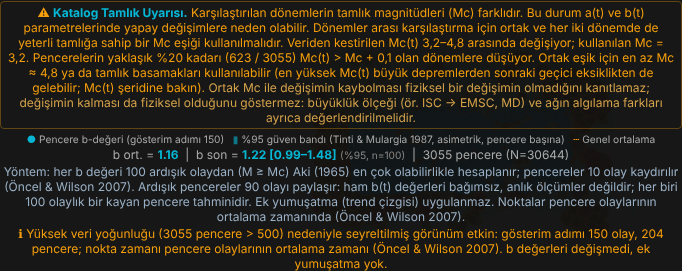
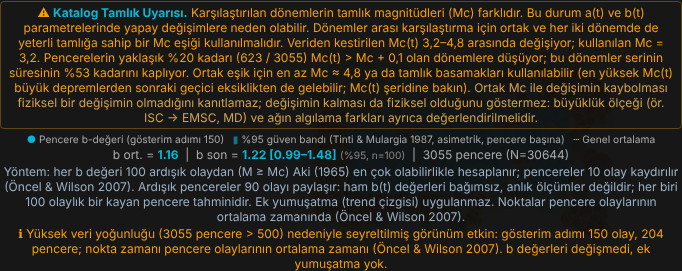
Mc uyarısı son inceleme: geçici (büyük deprem sonrası) ve kalıcı tamlık eksikliği süre oranıyla ayrıldı; basamak Mc(t) ölçütüne en az 2 takvim yılı koşulu
- Tek Mc: 'inc' pencereleri sürenin ≥ %5'i → kalıcı uyarı; < %5 → ayrı geçici eksiklik notu
- Kabul 31/31 (13 senaryo: GK74 açık/kapalı, Mc 4,0/4,5, basamaklar ± GK74, Kahramanmaraş); birim test_mc_uyari 16/16, tümü 16/16
- Hesap değişmedi (b(t), a(t), G–R önce = sonra); data/ değişmedi. RAPOR §2a

Claude-Session: https://claude.ai/code/session_01UNMkcWFv5QgcQmvZTMC63m

Changed region(s): [[0.0, 0.1771, 0.9853, 0.4723]]

diff --git a/index.html b/index.html
@@ -2989,7 +2989,8 @@ function renderAvalueTS(series, N, Mc, cs, t0, t1, NW, STEP) {
 let lastAts = null;
 // Katalog tamlık (Mc uyumsuzluğu) uyarısı (2026-10-31). Hesap değiştirmez; b(t) panelinin mevcut ölçümlerini kullanır:
 //  • tek Mc: Mc(t) şeridi (kayan pencere veri Mc'si, maks. eğrilik +0,2) ve pencere başına 'inc' işareti (pencere süresinde veri Mc(t) > kullanılan Mc + 0,1).
-//    Uyarı: pencerelerin en az %5'i 'inc' ise. Önerilen ortak eşik: en yüksek veri Mc(t)'si (0,1'e yukarı yuvarlanmış).
+//    Uyarı: pencerelerin en az %5'i 'inc' ise. 'inc' pencereleri serinin süresinin de en az %5'ini kaplıyorsa kalıcı tamlık farkı (asıl uyarı),
+//    kaplamıyorsa geçici eksiklik notu (büyük deprem sonrası kısa süreli Mc yükselmesi). Önerilen ortak eşik: en yüksek veri Mc(t)'si (0,1'e yukarı).
 //  • tamlık basamakları: dönemin bütün verisinden Mc'si eşiğin CS_QC.mcGap (0,2) üstündeyse (renderCsDiag ile aynı ölçüt) YA DA dönem içindeki
 //    Mc(t) şeridinin en az 2 noktası ve %10'u eşik + 0,2'nin üstündeyse YA DA dönem içinde en az 2 yılın yıllık Mc'si (≥ 50 olaylı yıllar, csSuggest
 //    ile aynı ölçüt) eşik + 0,2'nin üstündeyse (seyrek dönemlerde 250 olaylık Mc(t) penceresi birkaç yılı kapsar; örn. 1985–1989'da yıllık Mc 4,7–4,8, eşik 4,0).
@@ -2999,7 +3000,7 @@ function mcUyariDurum(o) {
     (o.periods || []).forEach(p => {
       const butun = p.mcData !== null && p.mcData !== undefined && p.mc < p.mcData - o.gap - 1e-9;
       const pts = (o.mcSer || []).filter(m => m.t >= p.t0 && m.t < p.t1), ust = pts.filter(m => m.mc > +p.mc + o.gap + 1e-9);
-      const ici = pts.length >= 2 && ust.length >= 2 && ust.length / pts.length >= 0.1;
+      const ici = pts.length >= 2 && ust.length >= 2 && ust.length / pts.length >= 0.1 && new Set(ust.map(m => new Date(m.t).getUTCFullYear())).size >= 2;   // en az 2 takvim yılı: büyük deprem sonrası birkaç aylık geçici eksiklik tek başına yetmez
       // Yıllık Mc (≥ CS_QC.minEvents olaylı yıllar; csSuggest ile aynı ölçüt): dönem içinde en az 2 yıl eşik + gap üstünde
       const yy = (o.yillik || []).filter(q => q.t0 >= p.t0 - 864e5 && q.t1 <= p.t1 + 864e5 && q.mc > +p.mc + o.gap + 1e-9), yil = yy.length >= 2;
       if (butun || ici || yil) az.push({ mc: +p.mc, mcData: p.mcData ?? null, t0: p.t0, t1: p.t1, mcTmax: ust.length ? Math.max(...ust.map(m => m.mc)) : null, oran: pts.length ? ust.length / pts.length : 0, nPts: pts.length,
@@ -3010,15 +3011,28 @@ function mcUyariDurum(o) {
   }
   const ser = o.ser || [], mcs = (o.mcSer || []).map(m => m.mc).filter(Number.isFinite);
   if (!ser.length || mcs.length < 2 || !Number.isFinite(o.Mc)) return { on: false };
-  const nInc = ser.filter(q => q.inc).length, frac = nInc / ser.length, mcMin = Math.min(...mcs), mcMax = Math.max(...mcs);
-  return frac >= 0.05 ? { on: true, tur: 'tekMc', frac, nInc, n: ser.length, mcMin, mcMax, Mc: o.Mc, oner: Math.ceil(mcMax * 10 - 1e-9) / 10 } : { on: false, frac, mcMin, mcMax };
+  const inc = ser.filter(q => q.inc), nInc = inc.length, frac = nInc / ser.length, mcMin = Math.min(...mcs), mcMax = Math.max(...mcs);
+  // Süre ağırlığı: 'inc' pencerelerinin [t0, t1] aralıklarının birleşim uzunluğu / serinin toplam süresi. Pencereler olay sayısıyla tanımlı olduğundan
+  // artçı dizisinde kısa sürede çok pencere oluşur; pencere oranı yüksek ama süre oranı düşükse eksiklik geçicidir (büyük deprem sonrası), kalıcı değil.
+  const T0 = Math.min(...ser.map(q => q.t0)), T1 = Math.max(...ser.map(q => q.t1));
+  let birlesim = 0, a = null, b = null;
+  inc.map(q => [q.t0, q.t1]).sort((x, y) => x[0] - y[0]).forEach(([x, y]) => { if (a === null) { a = x; b = y; } else if (x <= b) b = Math.max(b, y); else { birlesim += b - a; a = x; b = y; } });
+  if (a !== null) birlesim += b - a;
+  const sureOran = T1 > T0 ? birlesim / (T1 - T0) : 0;
+  if (frac < 0.05) return { on: false, frac, sureOran, mcMin, mcMax };
+  const ortak = { frac, sureOran, nInc, n: ser.length, mcMin, mcMax, Mc: o.Mc, oner: Math.ceil(mcMax * 10 - 1e-9) / 10 };
+  return sureOran >= 0.05 ? { on: true, tur: 'tekMc', ...ortak } : { on: true, tur: 'gecici', ...ortak };
 }
 function mcUyariHtml(d, kisa) {
   if (!d || !d.on) return '';
   const f = v => v.toFixed(1).replace('.', ','), yil = t => new Date(t).getUTCFullYear();
+  if (d.tur === 'gecici') {
+    if (kisa) return `<div id="mcUyariA" style="color:#d4a24a;margin-bottom:3px">ⓘ <b>Geçici tamlık eksikliği:</b> kısa süreli Mc yükselmesi (büyük deprem sonrası olası); a(t)'deki kısa süreli değişimleri etkileyebilir (ayrıntı b(t) panelinde).</div>`;
+    return `<div id="mcUyariB" style="color:#d4a24a;border:1px solid #d4a24a55;border-radius:4px;padding:3px 6px;margin-bottom:4px">ⓘ <b>Geçici tamlık eksikliği.</b> Pencerelerin yaklaşık %${Math.round(100 * d.frac)} kadarı (${d.nInc} / ${d.n}) veri Mc(t) > Mc + 0,1 olan aralıklara düşüyor, ancak bu aralıklar serinin süresinin yalnızca %${Math.max(1, Math.round(100 * d.sureOran))} kadarını kaplıyor (en yüksek Mc(t) ${f(d.mcMax)}; kullanılan Mc ${f(d.Mc)}). Bu örüntü, büyük depremlerden hemen sonra küçük olayların kaydedilememesiyle uyumludur; dönemler arası kalıcı bir Mc farkı değildir. O aralıklardaki a(t) ve b(t) değerleri (kısa süreli hız tepeleri, düşük b) eksik kayıttan etkilenebilir; Mc(t) şeridine bakın.</div>`;
+  }
   if (kisa) return `<div id="mcUyariA" style="color:#f59e0b;margin-bottom:3px">⚠ <b>Katalog tamlık uyarısı:</b> dönemlerin Mc'leri farklı; a(t)'deki değişimler yapay olabilir (ayrıntı b(t) panelinde).</div>`;
   const neden = d.tur === 'tekMc'
-    ? `Veriden kestirilen Mc(t) ${f(d.mcMin)}–${f(d.mcMax)} arasında değişiyor; kullanılan Mc = ${f(d.Mc)}. Pencerelerin yaklaşık %${Math.round(100 * d.frac)} kadarı (${d.nInc} / ${d.n}) Mc(t) > Mc + 0,1 olan dönemlere düşüyor. Ortak eşik için en az Mc ≈ ${f(d.oner)} ya da tamlık basamakları kullanılabilir (en yüksek Mc(t) büyük depremlerden sonraki geçici eksiklikten de gelebilir; Mc(t) şeridine bakın).`
+    ? `Veriden kestirilen Mc(t) ${f(d.mcMin)}–${f(d.mcMax)} arasında değişiyor; kullanılan Mc = ${f(d.Mc)}. Pencerelerin yaklaşık %${Math.round(100 * d.frac)} kadarı (${d.nInc} / ${d.n}) Mc(t) > Mc + 0,1 olan dönemlere düşüyor; bu dönemler serinin süresinin %${Math.round(100 * d.sureOran)} kadarını kaplıyor. Ortak eşik için en az Mc ≈ ${f(d.oner)} ya da tamlık basamakları kullanılabilir (en yüksek Mc(t) büyük depremlerden sonraki geçici eksiklikten de gelebilir; Mc(t) şeridine bakın).`
     : `Basamak eşiği, o dönemin veriden kestirilen Mc'sinin belirgin biçimde altında: ${d.donemler.map(p => `${yil(p.t0)}–${yil(p.t1 - 1)}: eşik ${f(p.mc)}` + (p.mcData !== null && p.mc < p.mcData - 0.2 - 1e-9 ? `, dönemin veri Mc'si ${f(p.mcData)}` : '') + (p.mcTmax !== null && p.neden.includes('Mc(t)') ? `, Mc(t) ${yil(p.ustT0)}–${yil(p.ustT1)} arasında ${f(p.mcTmax)}'e kadar (dönemdeki Mc(t) noktalarının %${Math.round(100 * p.oran)} kadarı eşik + 0,2'nin üstünde)` : '') + (p.yillar && p.yillar.length ? `, yıllık Mc ${p.yillar.map(q => `${q.y}: ${f(q.mc)}`).join(', ')}` : '')).join('; ')}.`;
   return `<div id="mcUyariB" style="color:#f59e0b;border:1px solid #f59e0b55;border-radius:4px;padding:3px 6px;margin-bottom:4px">⚠ <b>Katalog Tamlık Uyarısı.</b> Karşılaştırılan dönemlerin tamlık magnitüdleri (Mc) farklıdır. Bu durum a(t) ve b(t) parametrelerinde yapay değişimlere neden olabilir. Dönemler arası karşılaştırma için ortak ve her iki dönemde de yeterli tamlığa sahip bir Mc eşiği kullanılmalıdır. ${neden} ` +
     `<span style="color:#d4a24a">Ortak Mc ile değişimin kaybolması fiziksel bir değişimin olmadığını kanıtlamaz; değişimin kalması da fiziksel olduğunu göstermez: büyüklük ölçeği (ör. ISC → EMSC, MD) ve ağın algılama farkları ayrıca değerlendirilmelidir.</span></div>`;

diff --git a/analysis/mc_uyari/kabul_mc.js b/analysis/mc_uyari/kabul_mc.js
@@ -7,6 +7,7 @@
 //   basamak_test   ISC 1971–1997, basamaklar 1971 M ≥ 4,5 / 1985 M ≥ 4,0 (Poisson raporunda iyimser bulunan test basamakları)
 //   basamak_oto    ISC 1971–1997, "Otomatik öner" basamakları (5,0 / 4,2 / 4,8 / 3,9)
 //   marmara        Marmara, EMSC 1998–, otomatik Mc
+//   + GK74 açık, Mc 4,5, basamak + GK74, Kahramanmaraş (36,5–38,5° K / 35,5–39° D; 2023 artçıları) GK74 kapalı/açık: geçici/kalıcı ayrımı
 // Denetimler: (1) b(t) ve a(t) grafikleri, uyarı bloğu dışındaki b(t)/a(t) metinleri ve G–R metni önce = sonra (hesap değişmedi);
 //   (2) uyarı b(t)'de varsa a(t)'de kısa notu da var (ve tersi); (3) birlesik senaryosunda uyarı var; iyimser 1985 basamağı yıllık Mc ile yakalanıyor; (4) sayfa hatası yok.
 // Ekran görüntüsü: mc_uyari_birlesik.png
@@ -58,6 +59,13 @@ const SEN = {
   basamak_test:  { p: [[1971, 1997]], r: [36, 26, 42, 45], cs: [['1971-01-01', '4.5'], ['1985-01-01', '4.0']] },
   basamak_oto:   { p: [[1971, 1997]], r: [36, 26, 42, 45], cs: [['1971-01-01', '5.0'], ['1984-01-01', '4.2'], ['1986-01-01', '4.8'], ['1990-01-01', '3.9']] },
   marmara:       { p: [[1998, null]], r: [40, 26, 41.5, 31] },
+  // Geriye dönük uyumluluk (ChatGPT m. 3): GK74 açık, farklı Mc modları, basamaklar + GK74; geçici eksiklik (büyük artçı dizisi)
+  birlesik_gk74:     { p: [[1971, 1997], [1998, null]], r: [36, 26, 42, 45], gk: true },
+  isc71_97_mc45:     { p: [[1971, 1997]], r: [36, 26, 42, 45], mc: '4.5' },
+  marmara_gk74:      { p: [[1998, null]], r: [40, 26, 41.5, 31], gk: true },
+  basamak_test_gk74: { p: [[1971, 1997]], r: [36, 26, 42, 45], cs: [['1971-01-01', '4.5'], ['1985-01-01', '4.0']], gk: true },
+  kmaras:            { p: [[1998, null]], r: [36.5, 35.5, 38.5, 39] },
+  kmaras_gk74:       { p: [[1998, null]], r: [36.5, 35.5, 38.5, 39], gk: true },
 };
 (async () => {
   await new Promise(r => srv.listen(0, '127.0.0.1', r));
@@ -66,7 +74,7 @@ const SEN = {
     S[ad] = {}; const hat = [];
     for (const [k, c] of Object.entries(SEN)) {
       const { p, ctx, hatalar } = await sayfa(br, yol); await p.evaluate(KUR);
-      await p.evaluate(a => __kur(...a), [c.p, ...c.r]); if (c.mc) await p.evaluate(v => __mc(v), c.mc); if (c.cs) await p.evaluate(s => __cs(s), c.cs); await p.waitForTimeout(200);
+      await p.evaluate(a => __kur(...a), [c.p, ...c.r]); if (c.gk) await p.evaluate(async () => { await toggleRegionDecluster(); applyGk74Filter(regionEvents); renderTimeMag([...events, ...liveEvents]); }); if (c.mc) await p.evaluate(v => __mc(v), c.mc); if (c.cs) await p.evaluate(s => __cs(s), c.cs); await p.waitForTimeout(200);
       S[ad][k] = await p.evaluate(() => __oku());
       if (ad === 'sonra' && k === 'birlesik') { const el = await p.$('#tmStatsB'); await el.scrollIntoViewIfNeeded(); await el.screenshot({ path: path.join(__dirname, 'mc_uyari_birlesik.png') }); }
       hat.push(...hatalar); await ctx.close();
@@ -77,12 +85,14 @@ const SEN = {
   for (const k of Object.keys(SEN)) { const o = O[k], y = Y[k];
     ok(o.bSvg === y.bSvg && o.bTxt === y.bTxt && o.aSvg === y.aSvg && o.aTxt === y.aTxt && o.grTxt === y.grTxt, `(1) ${k}: b(t) ve a(t) grafikleri, uyarı dışındaki b(t)/a(t) metinleri ve G–R metni önce = sonra`);
     ok(!!y.uyariB === y.uyariA && (!!y.uyariB) === !!(y.durum && y.durum.on) && !o.uyariB, `(2) ${k}: uyarı ${y.uyariB ? 'VAR' : 'yok'} (b(t) ve a(t) tutarlı; önce yok)`);
-    const d = y.durum; console.log(`     ${k}: Mc = ${y.Mc}${y.csAktif ? ' (basamaklı)' : ''}; ` + (d ? (d.tur === 'tekMc' ? `Mc(t) ${d.mcMin?.toFixed(2)}–${d.mcMax?.toFixed(2)}, 'inc' %${(100 * d.frac).toFixed(0)}${d.on ? `, önerilen Mc ${d.oner}` : ''}` : d.tur === 'basamak' ? `dönemler: ${d.donemler.map(q => `eşik ${q.mc} < veri ${q.mcData}`).join('; ')}` : 'uyarı koşulu yok') : '—'));
+    const d = y.durum; console.log(`     ${k}: Mc = ${y.Mc}${y.csAktif ? ' (basamaklı)' : ''}${SEN[k].gk ? ', GK74' : ''}; tür ${d && d.on ? d.tur : '—'}; ` + (d && d.sureOran !== undefined ? `süre oranı %${(100 * d.sureOran).toFixed(1)}; ` : '') + (d ? ((d.tur === 'tekMc' || d.tur === 'gecici') ? `Mc(t) ${d.mcMin?.toFixed(2)}–${d.mcMax?.toFixed(2)}, 'inc' %${(100 * d.frac).toFixed(0)}${d.on ? `, önerilen Mc ${d.oner}` : ''}` : d.tur === 'basamak' ? `dönemler: ${d.donemler.map(q => `eşik ${q.mc} < veri ${q.mcData}`).join('; ')}` : 'uyarı koşulu yok') : '—'));
   }
   ok(Y.birlesik.durum && Y.birlesik.durum.on && /Katalog Tamlık Uyarısı/.test(Y.birlesik.uyariB), '(3) Birleşik ISC + EMSC, otomatik Mc: uyarı gösteriliyor');
   { const d = Y.basamak_test.durum, p85 = d && d.donemler.find(q => new Date(q.t0).getUTCFullYear() === 1985);
     ok(!!p85 && p85.neden.includes('yıllık') && p85.yillar.some(q => q.y === 1986) && p85.yillar.some(q => q.y === 1988) && /1986: 4,8/.test(Y.basamak_test.uyariB),
       `(3) İyimser test basamağı (1985 M ≥ 4,0) yıllık Mc ile yakalanıyor: ${p85 ? p85.yillar.map(q => q.y + ': ' + q.mc).join(', ') : '—'} (Poisson raporu §4.5 ile tutarlı)`); }
+  ok(Y.birlesik.durum.tur === 'tekMc' && Y.birlesik_gk74.durum.on && Y.birlesik_gk74.durum.tur === 'tekMc', '(3) Birleşik ISC + EMSC: kalıcı uyarı GK74 kapalı ve açıkken');
+  ok(Object.values(Y).filter(v => v && v.durum).every(v => !v.durum.on || ['tekMc', 'gecici', 'basamak'].includes(v.durum.tur)), '(3) Tüm senaryolarda uyarı türü tanımlı (kalıcı / geçici / basamak)');
   ok(!O.hatalar.length && !Y.hatalar.length, `(4) Sayfa hatası yok (önce ${O.hatalar.length}, sonra ${Y.hatalar.length})` + (Y.hatalar.length ? ': ' + Y.hatalar.join(' | ') : ''));
   const ozet = {}; for (const k of Object.keys(SEN)) ozet[k] = { Mc: Y[k].Mc, durum: Y[k].durum, uyari: Y[k].uyariB };
   fs.writeFileSync(path.join(__dirname, 'kabul_sonuc.json'), JSON.stringify({ senaryolar: SEN, sonuc: ozet, denetimler: kayit, ozet: { pass, fail } }, null, 1));

diff --git a/scripts/test_mc_uyari.js b/scripts/test_mc_uyari.js
@@ -7,21 +7,30 @@ const src = fs.readFileSync(process.argv[2] || path.join(__dirname, '..', 'index
 const fn = name => { const i = src.indexOf('\nfunction ' + name + '('); if (i < 0) throw new Error('bulunamadı: ' + name); const j = src.slice(i + 1).search(/\n(?=[^\s}])/); return src.slice(i + 1, i + 2 + j); };
 const X = {}; vm.createContext(X); vm.runInContext(['mcUyariDurum', 'mcUyariHtml'].map(fn).join('\n'), X);
 let pass = 0, fail = 0; const ok = (c, m) => { c ? pass++ : fail++; console.log((c ? '  ok  ' : '  !!  ') + m); };
-const ser = (n, k) => Array.from({ length: n }, (_, i) => ({ inc: i < k }));
+// Pencereler: i'inci pencere [i, i + 10] zaman biriminde; ilk k pencere 'inc' (zamana yayılmış)
+const ser = (n, k) => Array.from({ length: n }, (_, i) => ({ inc: i < k, t0: i, t1: i + 10 }));
 const mcSer = [{ t: 0, mc: 3.2 }, { t: 1, mc: 3.74 }, { t: 2, mc: 3.3 }];
 { const d = X.mcUyariDurum({ cs: false, ser: ser(100, 5), mcSer, Mc: 3.2 });
   ok(d.on && d.tur === 'tekMc' && Math.abs(d.frac - 0.05) < 1e-12 && d.oner === 3.8 && d.mcMin === 3.2 && d.mcMax === 3.74, `tek Mc, %5 'inc' → uyarı; önerilen Mc ${d.oner} (en yüksek Mc(t) 3,74 yukarı yuvarlandı)`); }
 { const d = X.mcUyariDurum({ cs: false, ser: ser(100, 4), mcSer, Mc: 3.2 }); ok(!d.on, "tek Mc, %4 'inc' → uyarı yok"); }
+{ // Geçici: 30 'inc' pencere [500, 501] aralığında yığılı (artçı dizisi), toplam süre 0–1000 → pencere oranı %20, süre oranı %0,1
+  const sr = Array.from({ length: 150 }, (_, i) => i < 30 ? { inc: true, t0: 500 + i / 30, t1: 500 + i / 30 + 0.03 } : { inc: false, t0: (i - 30) * 8, t1: (i - 30) * 8 + 10 });
+  const d = X.mcUyariDurum({ cs: false, ser: sr, mcSer, Mc: 3.2 });
+  ok(d.on && d.tur === 'gecici' && d.frac === 0.2 && d.sureOran < 0.05, `geçici: pencerelerin %20'si ama sürenin %${(100 * d.sureOran).toFixed(1)}'i → geçici eksiklik notu (kalıcı uyarı değil)`);
+  const h = X.mcUyariHtml(d); ok(/Geçici tamlık eksikliği/.test(h) && !/Katalog Tamlık Uyarısı/.test(h) && /kalıcı bir Mc farkı değildir/.test(h), 'geçici notun metni kalıcı uyarıdan ayrı'); }
+{ const d = X.mcUyariDurum({ cs: false, ser: ser(100, 20), mcSer, Mc: 3.2 }); ok(d.on && d.tur === 'tekMc' && d.sureOran >= 0.05, `kalıcı: 'inc' pencereleri sürenin %${(100 * d.sureOran).toFixed(0)}'ini kaplıyor → asıl uyarı`); }
 { const d = X.mcUyariDurum({ cs: false, ser: ser(100, 50), mcSer: [{ t: 0, mc: 3 }], Mc: 3 }); ok(!d.on, 'Mc(t) şeridi < 2 nokta → uyarı yok (karar verilemez)'); }
 { const P = [{ mc: 4.5, mcData: 4.6, t0: 0, t1: 1 }, { mc: 4.0, mcData: 4.8, t0: 1, t1: 2 }, { mc: 4.0, mcData: null, t0: 2, t1: 3 }];
   const d = X.mcUyariDurum({ cs: true, periods: P, gap: 0.2 });
   ok(d.on && d.tur === 'basamak' && d.donemler.length === 1 && d.donemler[0].mcData === 4.8, 'basamaklar: yalnız eşiği veri Mc − 0,2\'nin altında olan dönem işaretlenir (4,0 < 4,8 − 0,2); 4,5 ile 4,6 farkı ve veri Mc yokluğu uyarı üretmez');
   ok(!X.mcUyariDurum({ cs: true, periods: [{ mc: 4.5, mcData: 4.65 }], gap: 0.2 }).on, 'basamaklar: fark ≤ 0,2 → uyarı yok'); }
 { // Dönem içi değişim: dönemin bütün Mc'si 3,9 (eşik 4,0 ile uyumlu) ama 1985–1989 Mc(t) 4,7–4,8
-  const P = [{ mc: 4.0, mcData: 3.9, t0: 0, t1: 13 }], ms = [4.8, 4.7, 4.75, 3.9, 3.8, 3.7, 3.7, 3.8, 3.7, 3.7].map((mc, i) => ({ t: i + 0.5, mc }));
+  const YR = 365.25 * 864e5, P = [{ mc: 4.0, mcData: 3.9, t0: 0, t1: 13 * YR }], ms = [4.8, 4.7, 4.75, 3.9, 3.8, 3.7, 3.7, 3.8, 3.7, 3.7].map((mc, i) => ({ t: (i + 0.5) * YR, mc }));
   const d = X.mcUyariDurum({ cs: true, periods: P, gap: 0.2, mcSer: ms });
   ok(d.on && d.donemler[0].mcTmax === 4.8 && Math.abs(d.donemler[0].oran - 0.3) < 1e-12, 'basamaklar: dönem içi Mc(t) değişimi yakalanıyor (3/10 nokta eşik + 0,2 üstünde, en yüksek 4,8)');
-  ok(!X.mcUyariDurum({ cs: true, periods: P, gap: 0.2, mcSer: ms.map((m, i) => i === 0 ? m : { ...m, mc: 3.8 }) }).on, 'basamaklar: tek aykırı Mc(t) noktası uyarı üretmez (en az 2 nokta gerekir)'); }
+  ok(!X.mcUyariDurum({ cs: true, periods: P, gap: 0.2, mcSer: ms.map((m, i) => i === 0 ? m : { ...m, mc: 3.8 }) }).on, 'basamaklar: tek aykırı Mc(t) noktası uyarı üretmez (en az 2 nokta gerekir)');
+  const ayniYil = ms.map((m, i) => i < 3 ? { ...m, t: 0.1 * YR + i * 864e5 * 20 } : m);   // üç yüksek nokta aynı yıl içinde (artçı dizisi)
+  ok(!X.mcUyariDurum({ cs: true, periods: P, gap: 0.2, mcSer: ayniYil }).on, 'basamaklar: yüksek Mc(t) noktaları tek takvim yılındaysa (geçici) Mc(t) ölçütü uyarı üretmez'); }
 { // Yıllık ölçüt: Mc(t) seyrek dönemi yakalamıyor (hepsi 3,9), yıllık Mc 1986: 4,8 ve 1988: 4,7 (eşik 4,0) → uyarı; tek yıl → uyarı yok
   const Y = y => Date.UTC(y, 0, 1), P = [{ mc: 4.0, mcData: 3.9, t0: Y(1985), t1: Y(1998) }], ms = [{ t: Y(1990), mc: 3.9 }, { t: Y(1995), mc: 3.9 }];
   const yl = [{ y: 1986, n: 56, mc: 4.8 }, { y: 1988, n: 60, mc: 4.7 }, { y: 1992, n: 179, mc: 3.7 }].map(q => ({ ...q, t0: Y(q.y), t1: Y(q.y + 1) }));

diff --git a/analysis/mc_uyari/RAPOR.md b/analysis/mc_uyari/RAPOR.md
@@ -1,6 +1,6 @@
-# Katalog tamlık (Mc uyumsuzluğu) uyarısı — doğrulama raporu (2026-11-01)
+# Katalog tamlık (Mc uyumsuzluğu) uyarısı — doğrulama raporu (2026-11-01, son inceleme sonrası)
 
-Dal: `mc-uyari`, `main` 54fbd0b'den açıldı. `main`'e birleştirilmedi; canlıya gönderilmedi.
+Dal: `mc-uyari`, `main` 54fbd0b'den açıldı; son incelemede güncel `main` (fd18abf) ile eşitlendi.
 
 **Gerekçe:** ISC–EMSC araştırması (`isc-emsc-olcek` dalı) varsayılan ayarlardaki 1998 b(t) sıçramasının büyük ölçüde tamlık (Mc) kaynaklı olduğunu gösterdi. Ancak ortak Mc ile bile anlamlı bir hız farkı kaldı (+0,14 log birimi). Uyarı, kullanıcıyı Mc farkına karşı uyarır. Ama ne değişimin kaybolmasını ne de kalmasını fiziksel bir sonuç olarak sunar.
 
@@ -53,9 +53,47 @@ Diğer birim testleri: 16/16 (yeni dosya dahil).
 
 Ekran görüntüsü: `mc_uyari_birlesik.png`
 
+## 2a. Son kod incelemesi (ChatGPT'nin üç noktası)
+
+**1. Hesaplama bütünlüğü.** Kod farkı satır satır okundu. Değişiklik yalnızca gösterim katmanında: `mcUyariDurum`, `mcUyariHtml` ve iki `innerHTML` başına eklenen uyarı. `lastBts`, b(t) serisi, `inc` tanımı, G–R ve a(t) hesapları değişmedi. Yıllık Mc yalnızca okuma yapar (`computeMc`). `data/` değişmedi. Kabul testi bunu 13 senaryoda doğruluyor (grafikler ve uyarı dışındaki metinler önce = sonra).
+
+**2. Yanlış uyarı riski (geçici ve kalıcı eksiklik).** İncelemede bir zayıflık bulundu ve düzeltildi.
+- Sorun: Tek Mc ölçütü pencere sayısına dayanıyordu. Artçı dizisi kısa sürede çok pencere ürettiğinden, büyük deprem sonrası birkaç aylık eksiklik "dönemlerin Mc'leri farklı" uyarısı verebilirdi.
+- Düzeltme: Süre ağırlığı eklendi. `inc` pencerelerinin [t0, t1] aralıklarının birleşimi, serinin süresinin en az %5'iyse **kalıcı uyarı**; değilse ayrı, daha hafif bir **geçici eksiklik notu** gösterilir ("dönemler arası kalıcı bir Mc farkı değildir").
+- Basamaklı moddaki Mc(t) ölçütü için de en az 2 takvim yılı koşulu eklendi.
+- Birim testleri bu ayrımı denetliyor: pencerelerin %20'si ama sürenin %0,1'i → geçici.
+
+**3. Geriye dönük uyumluluk.** Kabul testine altı senaryo eklendi: GK74 açık, Mc = 4,5, basamaklar + GK74 ve Kahramanmaraş (GK74 kapalı/açık).
+
+| Senaryo | Mc | Tür | Pencere oranı | Süre oranı |
+|---|---|---|---|---|
+| Birleşik ISC + EMSC | 3,2 | kalıcı | %20 | %53 |
+| Birleşik, GK74 açık | 3,2 | kalıcı | %18 | %54 |
+| ISC 1971–1997, Mc 4,5 | 4,5 | kalıcı | %85 | %87 |
+| EMSC 1998– | 3,2 | kalıcı | %11 | %9 |
+| Marmara, GK74 kapalı / açık | 3,2 | yok | %0 | %0 |
+| Basamaklar (test), GK74 kapalı | basamaklı | basamak | iki dönem (1971–1985: Mc(t) + yıllık; 1985–1997: yıllık) | |
+| Basamaklar (test), GK74 açık | basamaklı | basamak | yalnızca 1971–1985 | |
+| Kahramanmaraş (36,5–38,5° K / 35,5–39° D), GK74 kapalı | 3,2 | kalıcı | %40 | %40 |
+| Kahramanmaraş, GK74 açık | 3,2 | kalıcı | %23 | %30 |
+
+**Kahramanmaraş örneği (yıllık dağılım, GK74 kapalı):** `inc` pencereleri iki ayrı yerde:
+- 1999–2004'te neredeyse tümü: seyrek ağ döneminin kalıcı eksikliği. "Kalıcı" sınıflandırması bunun için doğru.
+- 2023'te 206 pencerenin 110'u: Şubat 2023 depremleri sonrası geçici eksiklik.
+
+Önerilen ortak Mc (4,5) 2023'teki geçici tepeden geliyor ve gereğinden tutucu. Uyarı metni bunu belirtiyor ("en yüksek Mc(t) büyük depremlerden sonraki geçici eksiklikten de gelebilir; Mc(t) şeridine bakın"). Karma durumlarda önerilen eşik dikkatle okunmalı.
+
+**GK74 açıkken basamak denetimi:** Ayıklama yıllık olay sayısını düşürdüğü için 1986 ve 1988 "≥ 50 olay" koşulunu sağlamıyor. Bu yüzden iyimser 1985 basamağı GK74 açıkken yakalanmıyor. Yıllık ölçüt seyrek kataloglarda gücünü yitirir (aşağıdaki sınırlar).
+
+**Testler (son):**
+- Birim `test_mc_uyari.js` 16/16 (geçici/kalıcı ayrımı dahil); tüm birim testleri 16/16.
+- Kabul `kabul_mc.js` 31/31 (13 senaryo; önce = main fd18abf).
+
 ## 3. Sınırlar
 
 - Uyarı, verinin kendi Mc tahminlerine (maks. eğrilik +0,2) dayanır. Bu tahminler de belirsizdir; %5 ve 0,2 eşikleri uzlaşımsaldır.
-- En yüksek Mc(t) büyük depremlerden sonraki geçici eksiklikten gelebilir; önerilen eşik bu yüzden tutucu olabilir (metinde yazıyor).
+- En yüksek Mc(t) büyük depremlerden sonraki geçici eksiklikten gelebilir; önerilen eşik bu yüzden tutucu olabilir (metinde yazıyor; Kahramanmaraş örneği §2a).
+- Geçici/kalıcı ayrımı süre oranına (%5) dayanır. Kalıcı ve geçici eksikliğin karıştığı serilerde (Kahramanmaraş) asıl uyarı gösterilir; geçici kısım ayrıca etiketlenmez.
+- GK74 açıkken yıllık olay sayısı düştüğü için yıllık ölçüt bazı yılları değerlendiremez (basamak + GK74 senaryosu).
 - Yıllık ölçüt yalnızca ≥ 50 olaylı yılları kullanır; daha seyrek dönemleri değerlendiremez.
 - Uyarı, ölçek (MD gibi dönüştürülmeyen türler) ve algılama farklarını ölçmez; yalnızca metinle hatırlatır.
